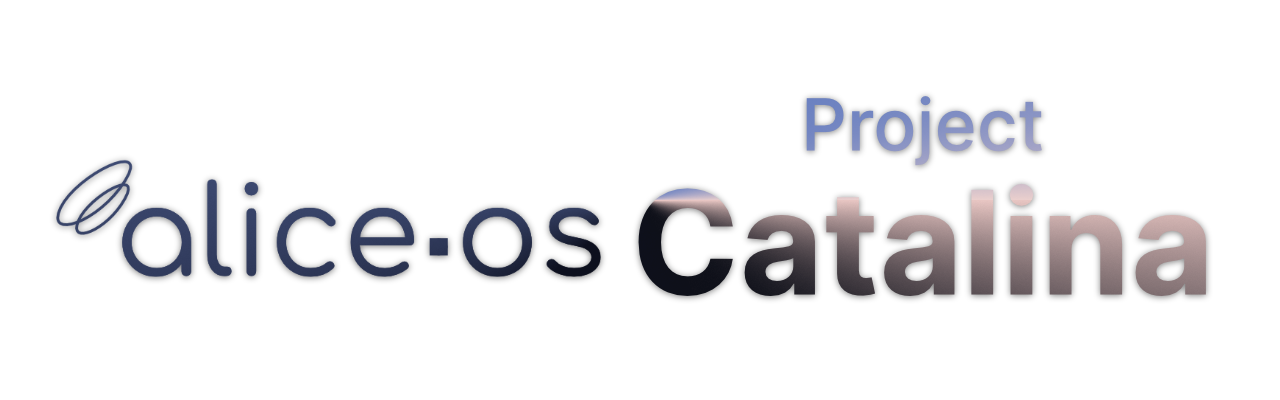
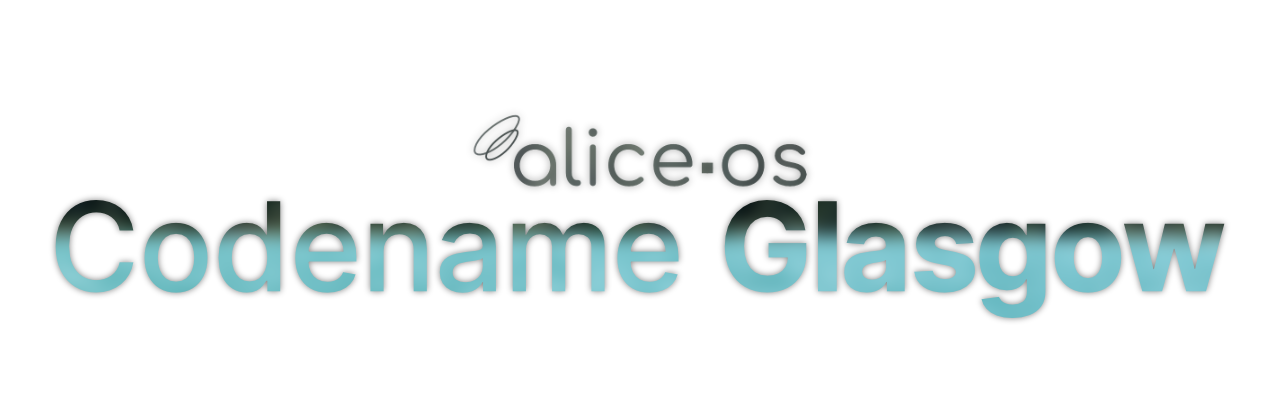
[aliceos] Update repo header and README for Glasgow branch

Changed region(s): [[0.0312, 0.24, 0.9688, 0.81]]

diff --git a/README.md b/README.md
@@ -1,8 +1,10 @@
-![AliceOS header](repo_assets/project_header_relname.png)
+![AliceOS header](repo_assets/project_header.png)
 
 [![Latest release](https://img.shields.io/github/v/release/projectalicedev/aliceos)](https://github.com/projectalicedev/aliceos/releases) ![Build Status](https://github.com/ProjectAliceDev/aliceos/workflows/Build%20AliceOS%20Archive/badge.svg) ![Lint Status](https://github.com/ProjectAliceDev/aliceos/workflows/Lint/badge.svg)
 
 AliceOS is a robust, evolving Ren'Py framework by Project Alice that adds an operating system-like experience to visual novel projects. AliceOS is easy to install, extendable, and is great for adding another layer of interactivity to your games.
+
+> :warning: The following branch is dedicated to the next release of AliceOS after AliceOS Prospect Park. Features and improvements will change over time.
 
 ## Core principles
 
@@ -14,15 +16,19 @@ The core principles of AliceOS are:
 - **Easy-to-install**: AliceOS installation is as easy as just copying the Ren'Py archive over to the game folder.
 
 ## Build instructions
+
 To build this project, clone the repository and in Ren'Py Launcher, click "Distribute" and select "AliceOS Base System Distributable". The resulting file will be in a ZIP archive with `AliceOSBaseSystem.rpa`.
 
 ## Install instructions (to existing projects)
+
 To install AliceOS directly without grabbing the source, download the ZIP archive from the release and copy `AliceOSBaseSystem.rpa` to your `game` folder.
 
 Additional instructions can be found in the [documentation](https://nextdocs.aliceos.app/01-install/).
 
 ## Documentation build instructions
+
 To generate the documentation site (requires MkDocs and Material for MkDocs):
+
 ```bash
 mkdocs build -d docs
 ```
